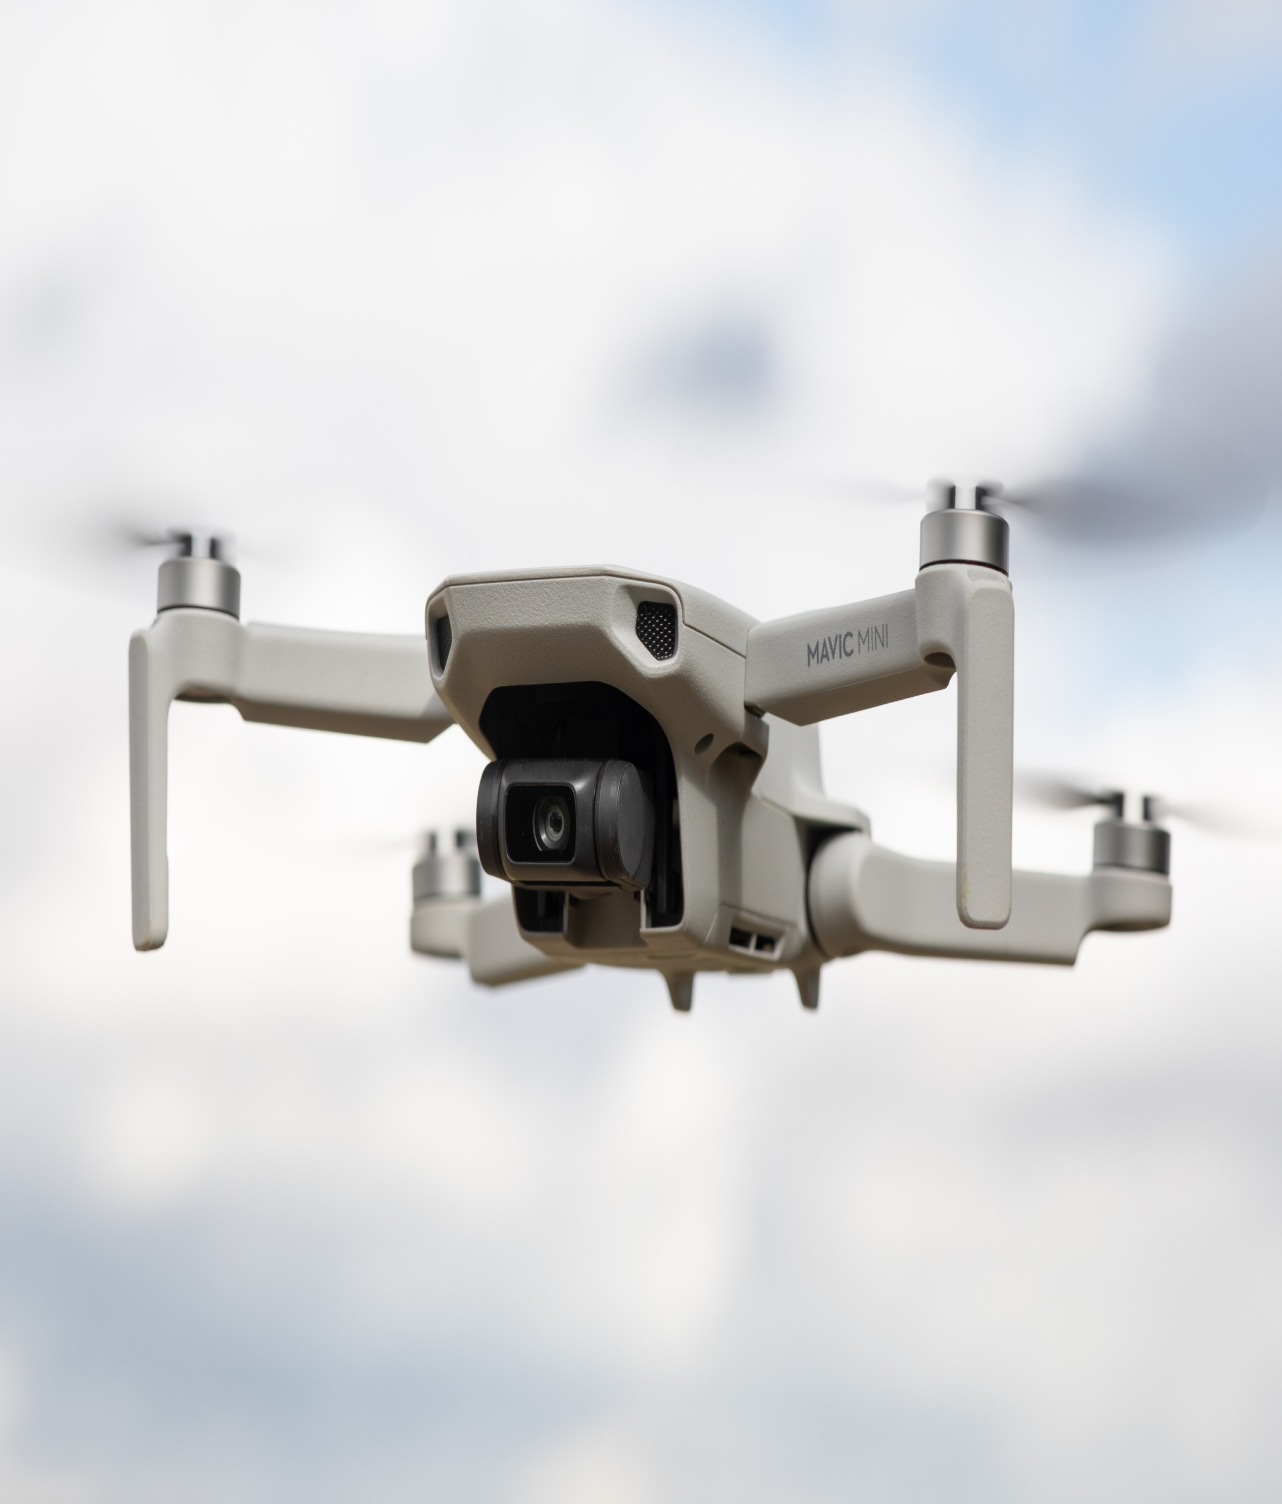
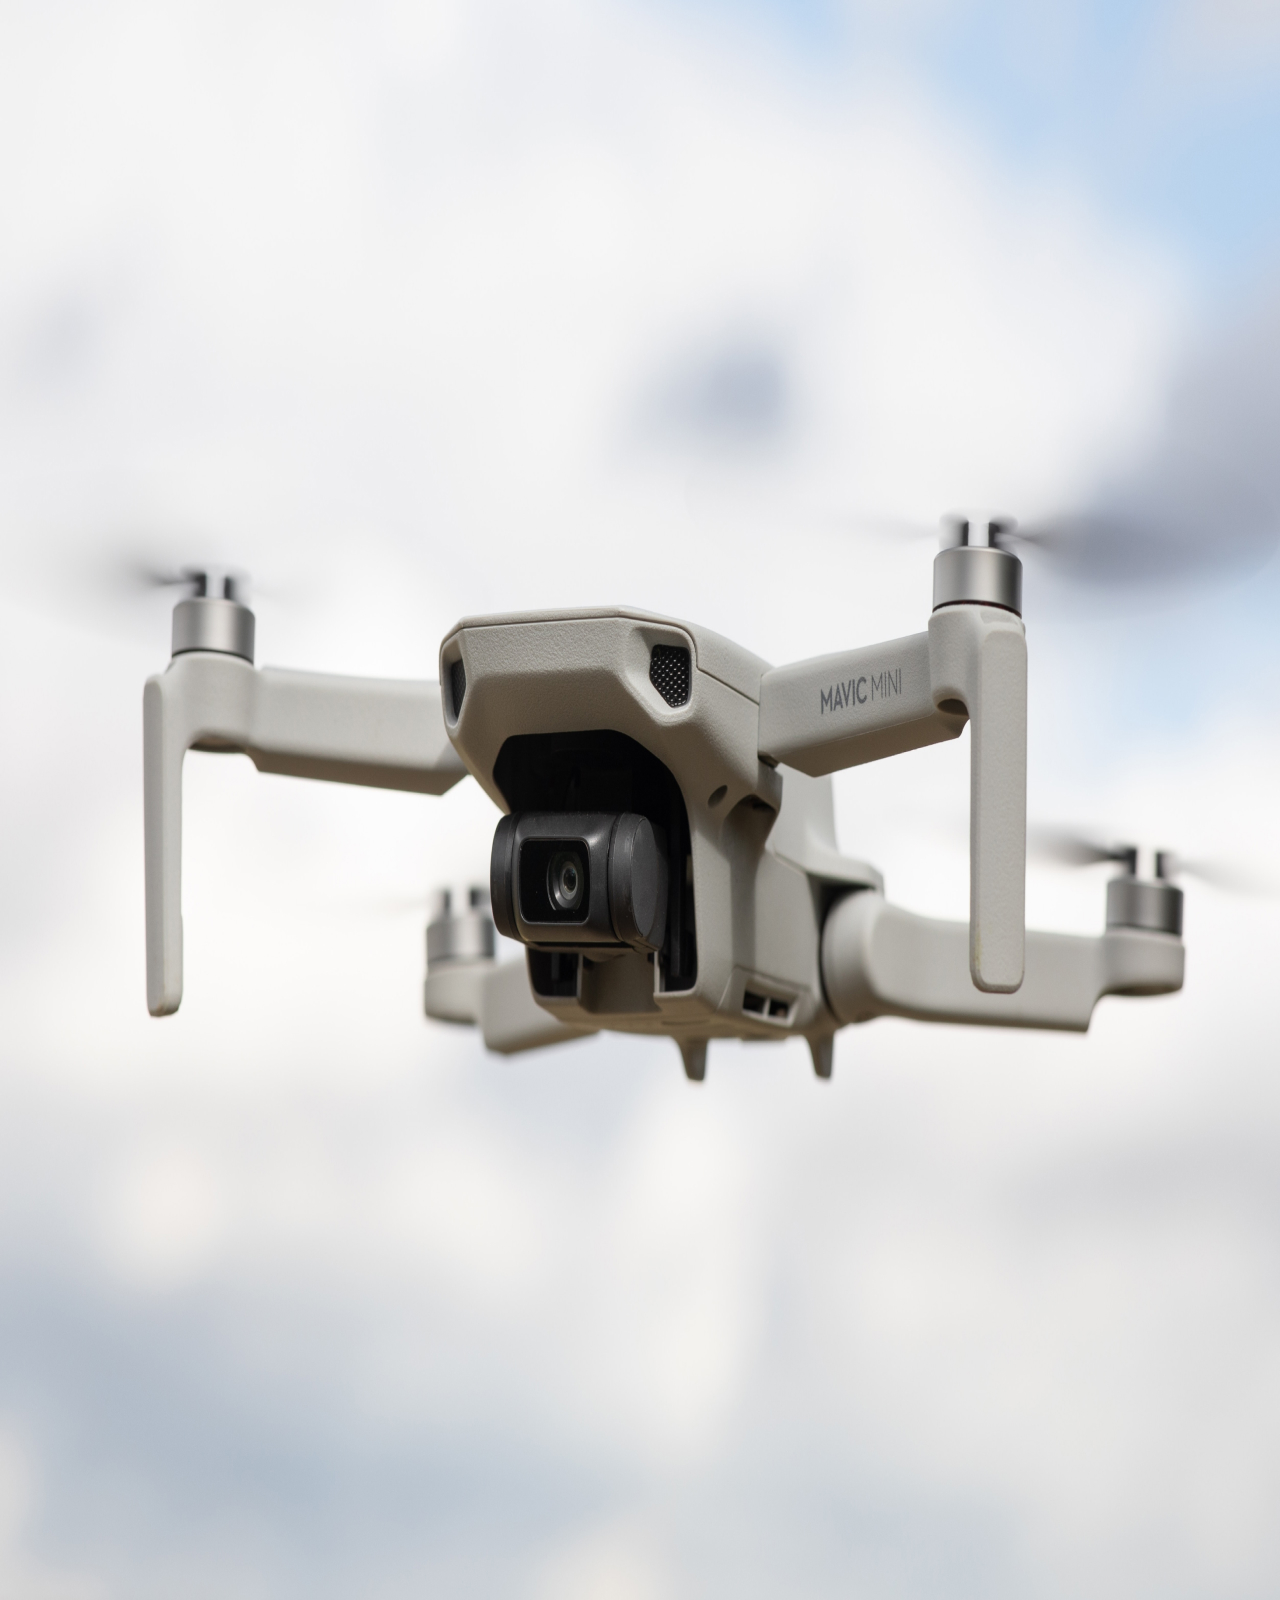
Adiciona introdução

Changed region(s): [[0.0938, 0.3125, 0.9375, 0.6875]]

diff --git a/css/style.css b/css/style.css
@@ -3,6 +3,12 @@ body {
     font-family: Arial, Helvetica, sans-serif;
 }
 
+h1,
+ul,
+p{
+    margin: 0px;
+}
+
 ul {
     margin: 0px;
     padding: 0px;
@@ -11,6 +17,12 @@ ul {
 
 a {
     text-decoration: none;
+    color: inherit;
+}
+
+img{
+    max-width: 100%;
+    display: block;
 }
 
 .header-bg {
@@ -88,4 +100,61 @@ a {
     .header-menu a {
         padding: 8px 12px;
     }
+}
+
+
+.introducao-bg{
+    background: #000000;
+    color: #ffffff;
+}
+
+.introducao{
+    display: grid;
+    grid-template-columns: 1fr 1fr;
+    gap: 0px 40px;
+    box-sizing: border-box;
+    max-width: 1200px;
+    padding-left: 20px;
+    padding-right: 20px;
+    margin-left: auto;
+    margin-right: auto;
+}
+
+.introducao-conteudo{
+    align-self: end;
+    padding-bottom: 80px;
+}
+
+.introducao h1{
+    margin-bottom: 32px;
+    font-size: 64px;
+    line-height: 1.125;
+}
+
+.introducao h1 span{
+    color: #00ffff;
+}
+
+.introducao p{
+    margin-bottom: 20px;
+    font-size: 24px;
+    line-height: 1.5;
+    color: #b2b2b2;
+}
+
+.introducao a{
+    display: inline-block;
+    padding: 16px 32px; 
+    background: linear-gradient( #00EAFF, #0CE3F2);
+    border-radius: 4px;
+    box-shadow: 0 1px 2px rgba(0, 0, 0, 0,.1);
+    text-transform: uppercase;
+    color: #003033;
+    font-size: 18px;
+    line-height: 1.33;
+    font-weight: bold;
+}
+
+.introducao a:hover{
+    background: linear-gradient( #09d6e8, #0cd8eb)
 }

diff --git a/index.html b/index.html
@@ -30,5 +30,20 @@
         </nav>
       </div>
     </header>
+
+    <main class="introducao-bg">
+      <div class="introducao">
+        <div class="introducao-conteudo">
+          <h1>Drones de alta tecnologia<span>.</span></h1>
+          <p>
+            Quando iniciamos a AirTech, nosso objetivo era revolucionar a
+            indústria com o poder da tecnologia aérea. Hoje, somos líderes no
+            mercado de drones
+          </p>
+          <a href="./Drones.html">Selecione o seu</a>
+        </div>
+        <img src="./img/fotos/foto intro.jpg" alt="Drone tecnologico" />
+      </div>
+    </main>
   </body>
 </html>
